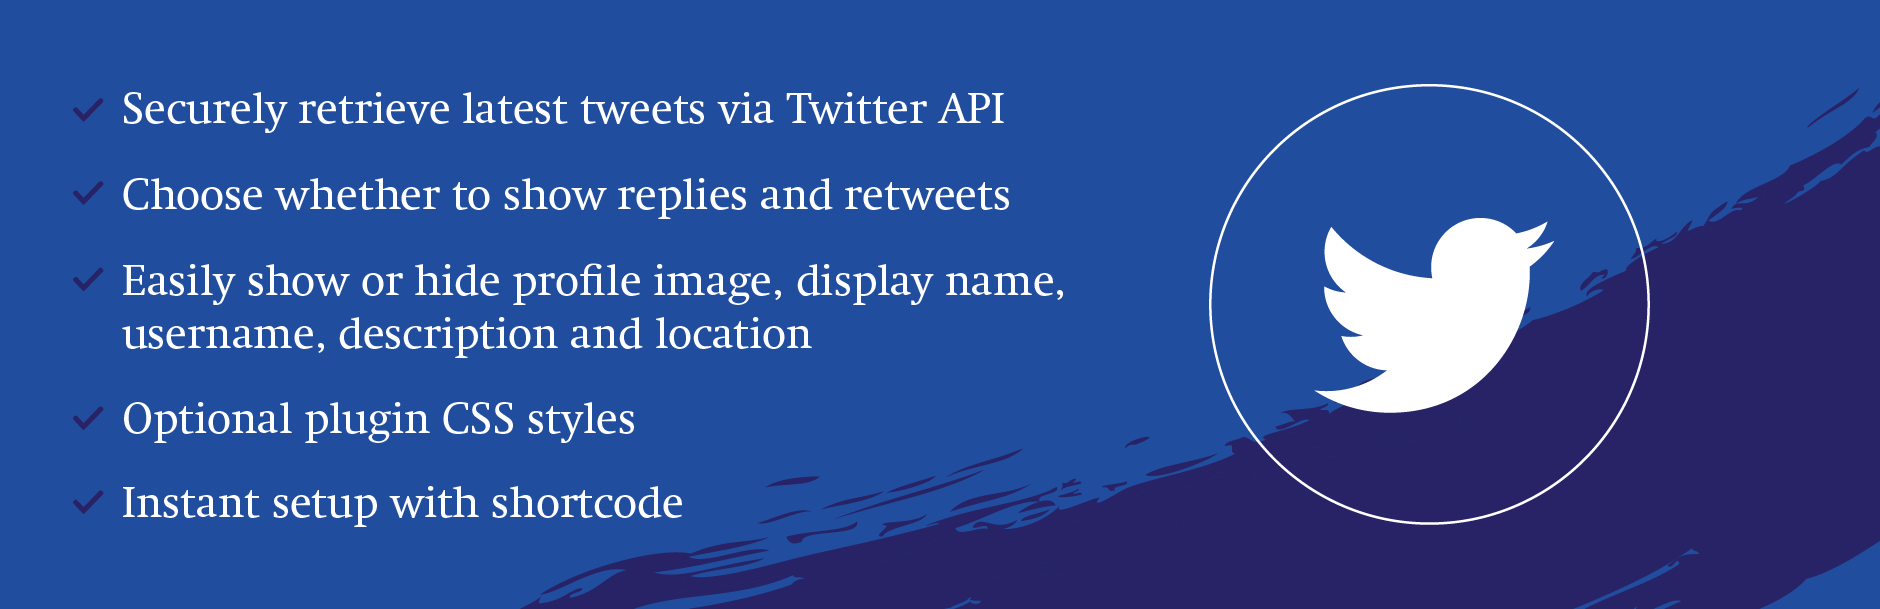
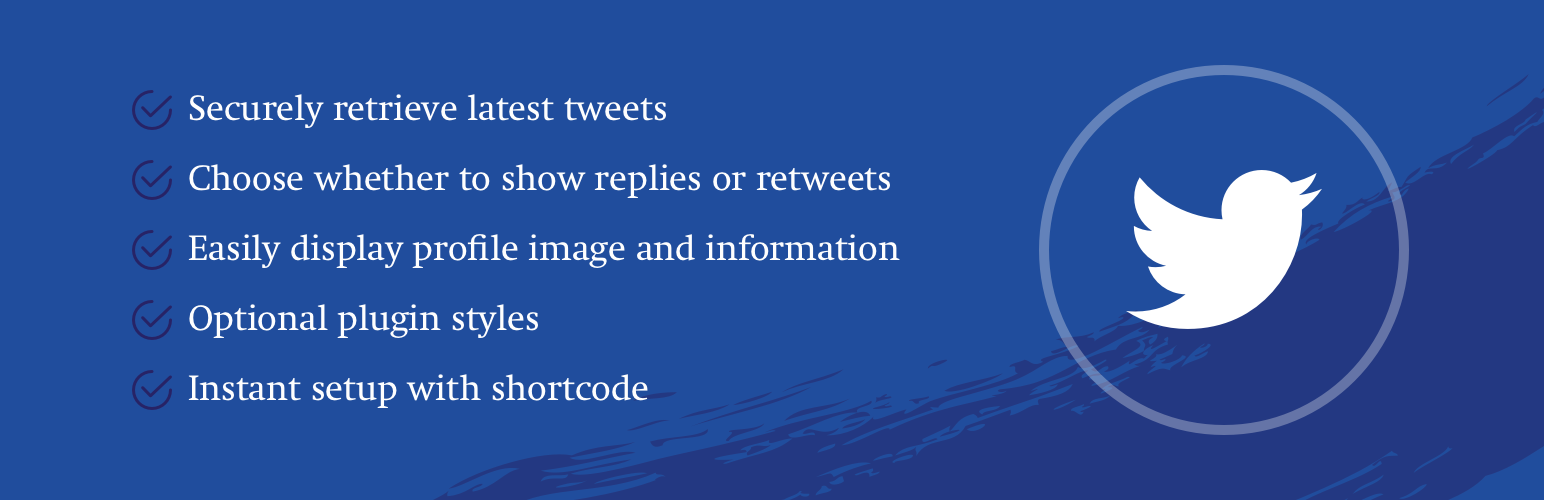
tested with wp 5.5 and updated assets

diff --git a/trunk/latest-tweets-obvs.php b/trunk/latest-tweets-obvs.php
@@ -16,7 +16,7 @@
  * Plugin Name:       Latest Tweets Obvs
  * Plugin URI:        https://jase.io/archive/development/latest-tweets-obvs/
  * Description:       Latest Tweets Obvs is a simple plugin that displays, well, latest tweets (obvs) via the Twitter API.
- * Version:           1.0.4
+ * Version:           1.0.5
  * Author:            Jase Warner
  * Author URI:        https://jase.io/
  * License:           GPL-2.0+
